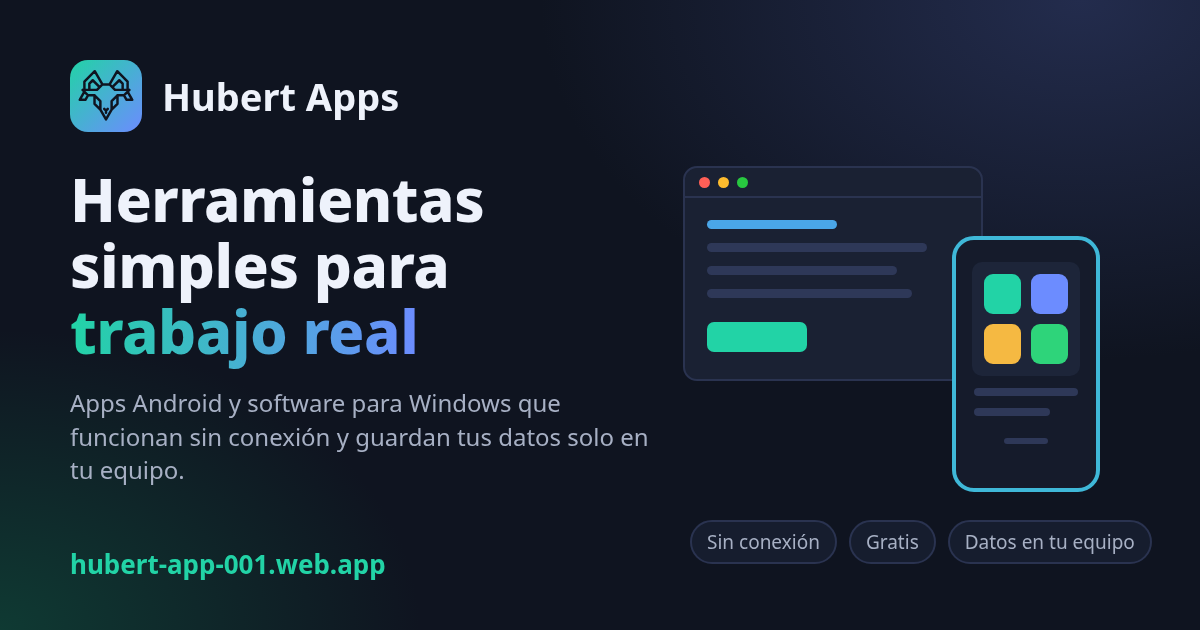
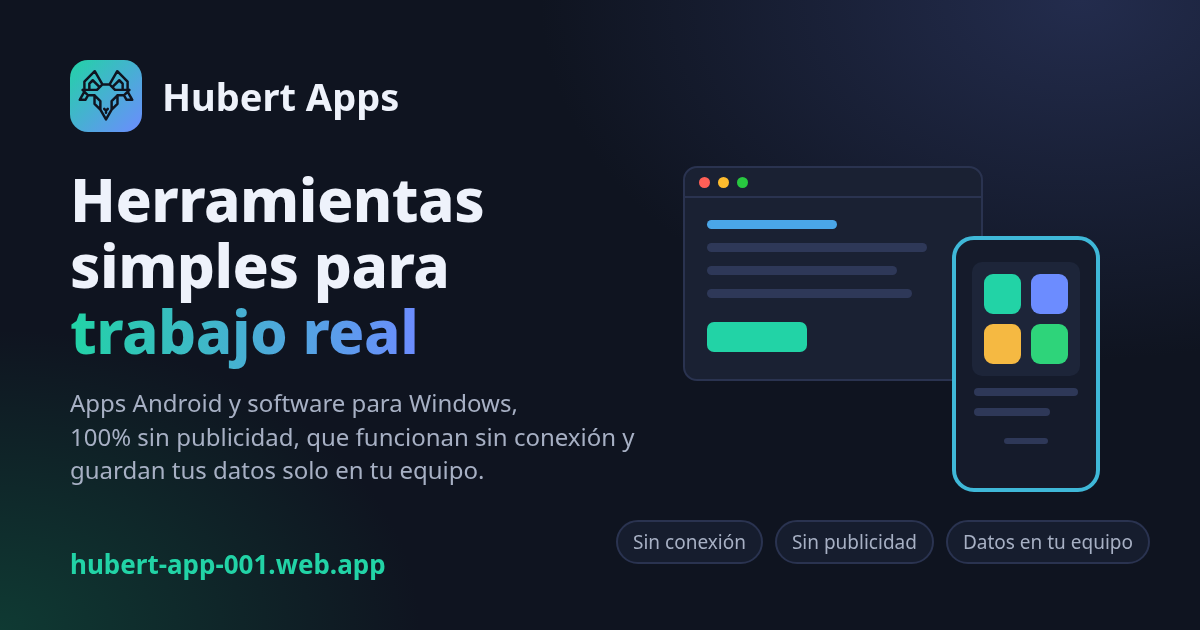
Mensajes: se quita 'gratis' y se agrega '100% sin publicidad' (descripción, Open Graph, Twitter y dato del inicio); nueva imagen para compartir con etiqueta 'Sin publicidad'; og:image con ?v=2 para renovar la vista previa; icono asisteqr.png sincronizado

Changed region(s): [[0.0617, 0.6333, 0.555, 0.7841], [0.5242, 0.8143, 0.9558, 0.9048]]

diff --git a/index.html b/index.html
@@ -4,24 +4,24 @@
   <meta charset="UTF-8">
   <meta name="viewport" content="width=device-width, initial-scale=1">
   <title>Hubert Apps · Aplicaciones y Software</title>
-  <meta name="description" content="Apps Android y software para Windows, gratis, que funcionan sin conexión y guardan tus datos solo en tu equipo. Hechos por Hubert en Perú.">
+  <meta name="description" content="Apps Android y software para Windows, 100% sin publicidad, que funcionan sin conexión y guardan tus datos solo en tu equipo. Hechos por Hubert en Perú.">
   <link rel="canonical" href="https://hubert-app-001.web.app/">
   <meta name="theme-color" content="#0f1420">
   <!-- Vista previa al compartir (Open Graph / redes sociales) -->
   <meta property="og:type" content="website">
   <meta property="og:site_name" content="Hubert Apps">
   <meta property="og:title" content="Hubert Apps · Herramientas simples para trabajo real">
-  <meta property="og:description" content="Apps Android y software para Windows, gratis, que funcionan sin conexión y guardan tus datos solo en tu equipo.">
+  <meta property="og:description" content="Apps Android y software para Windows, 100% sin publicidad, que funcionan sin conexión y guardan tus datos solo en tu equipo.">
   <meta property="og:url" content="https://hubert-app-001.web.app/">
-  <meta property="og:image" content="https://hubert-app-001.web.app/assets/og-image.png">
+  <meta property="og:image" content="https://hubert-app-001.web.app/assets/og-image.png?v=2">
   <meta property="og:image:width" content="1200">
   <meta property="og:image:height" content="630">
   <meta property="og:image:alt" content="Hubert Apps: herramientas simples para trabajo real">
   <meta property="og:locale" content="es_PE">
   <meta name="twitter:card" content="summary_large_image">
   <meta name="twitter:title" content="Hubert Apps · Herramientas simples para trabajo real">
-  <meta name="twitter:description" content="Apps Android y software para Windows, gratis, que funcionan sin conexión y guardan tus datos solo en tu equipo.">
-  <meta name="twitter:image" content="https://hubert-app-001.web.app/assets/og-image.png">
+  <meta name="twitter:description" content="Apps Android y software para Windows, 100% sin publicidad, que funcionan sin conexión y guardan tus datos solo en tu equipo.">
+  <meta name="twitter:image" content="https://hubert-app-001.web.app/assets/og-image.png?v=2">
   <link rel="icon" href="assets/favicon.svg" type="image/svg+xml">
   <link rel="icon" href="assets/favicon-32.png" type="image/png" sizes="32x32">
   <link rel="icon" href="assets/favicon-16.png" type="image/png" sizes="16x16">
@@ -83,7 +83,7 @@
           <ul class="hero__stats" aria-label="Resumen del catálogo">
             <li><strong id="statApps">0</strong><span>apps</span></li>
             <li><strong id="statSoft">0</strong><span>programas</span></li>
-            <li><strong>100%</strong><span>gratis</span></li>
+            <li><strong>100%</strong><span>sin publicidad</span></li>
           </ul>
         </div>
         <div class="hero__arte" aria-hidden="true">

diff --git a/terminos.html b/terminos.html
@@ -12,7 +12,7 @@
   <meta property="og:title" content="Términos de uso · Hubert Apps">
   <meta property="og:description" content="Reglas para usar la web y el software gratuito de Hubert Apps: se entrega tal cual, licencias, uso de datos de terceros, reglas de comentarios, marcas y ley aplicable.">
   <meta property="og:url" content="https://hubert-app-001.web.app/terminos.html">
-  <meta property="og:image" content="https://hubert-app-001.web.app/assets/og-image.png">
+  <meta property="og:image" content="https://hubert-app-001.web.app/assets/og-image.png?v=2">
   <meta property="og:locale" content="es_PE">
   <meta name="twitter:card" content="summary_large_image">
   <link rel="icon" href="assets/favicon.svg" type="image/svg+xml">

diff --git a/privacidad.html b/privacidad.html
@@ -12,7 +12,7 @@
   <meta property="og:title" content="Política de privacidad · Hubert Apps">
   <meta property="og:description" content="Esta web no recoge datos personales ni usa cookies, y las apps de Hubert Apps guardan tus datos solo en tu equipo. Conoce tus derechos y cómo ejercerlos.">
   <meta property="og:url" content="https://hubert-app-001.web.app/privacidad.html">
-  <meta property="og:image" content="https://hubert-app-001.web.app/assets/og-image.png">
+  <meta property="og:image" content="https://hubert-app-001.web.app/assets/og-image.png?v=2">
   <meta property="og:locale" content="es_PE">
   <meta name="twitter:card" content="summary_large_image">
   <link rel="icon" href="assets/favicon.svg" type="image/svg+xml">

diff --git a/licencias.html b/licencias.html
@@ -12,7 +12,7 @@
   <meta property="og:title" content="Licencias y verificación de descargas · Hubert Apps">
   <meta property="og:description" content="Bibliotecas de código abierto que usan las apps de Hubert Apps, sus licencias, y cómo verificar que tus descargas son originales.">
   <meta property="og:url" content="https://hubert-app-001.web.app/licencias.html">
-  <meta property="og:image" content="https://hubert-app-001.web.app/assets/og-image.png">
+  <meta property="og:image" content="https://hubert-app-001.web.app/assets/og-image.png?v=2">
   <meta property="og:locale" content="es_PE">
   <meta name="twitter:card" content="summary_large_image">
   <link rel="icon" href="assets/favicon.svg" type="image/svg+xml">

diff --git a/404.html b/404.html
@@ -12,7 +12,7 @@
   <meta property="og:title" content="Página no encontrada · Hubert Apps">
   <meta property="og:description" content="La página que buscas no existe en Hubert Apps.">
   <meta property="og:url" content="https://hubert-app-001.web.app/">
-  <meta property="og:image" content="https://hubert-app-001.web.app/assets/og-image.png">
+  <meta property="og:image" content="https://hubert-app-001.web.app/assets/og-image.png?v=2">
   <meta property="og:locale" content="es_PE">
   <meta name="twitter:card" content="summary_large_image">
   <link rel="icon" href="/assets/favicon.svg" type="image/svg+xml">
